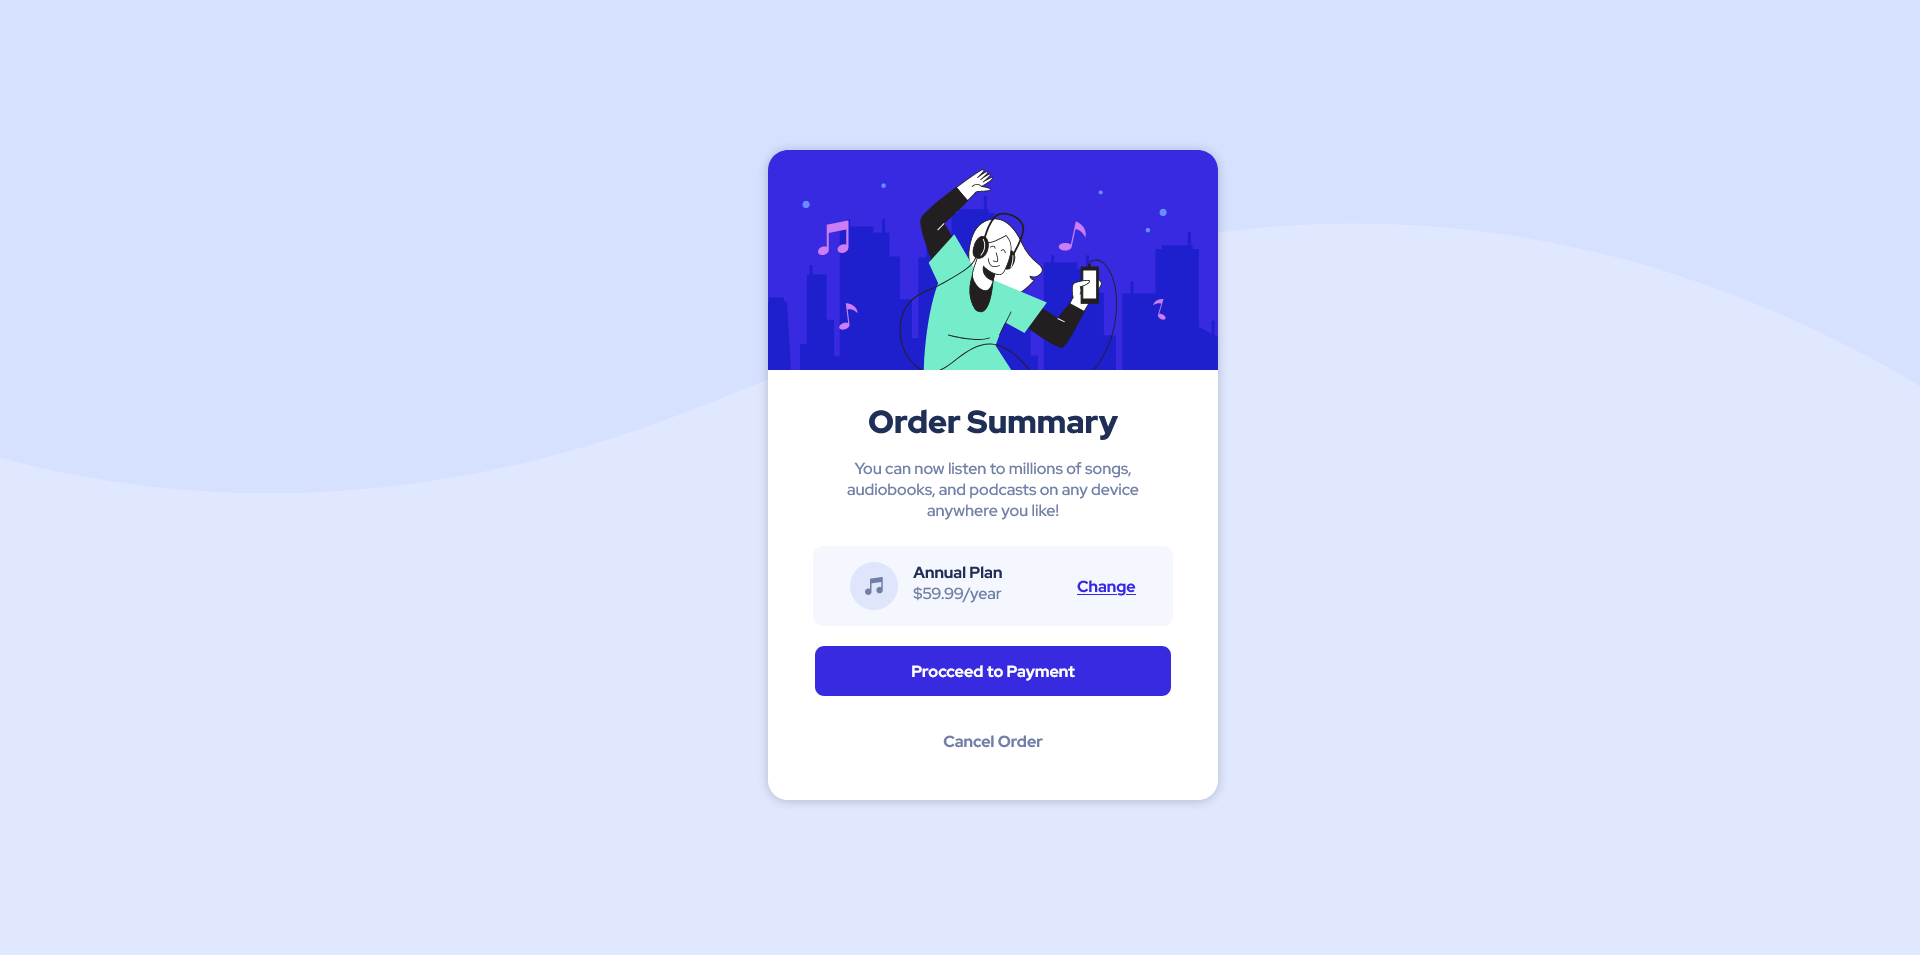
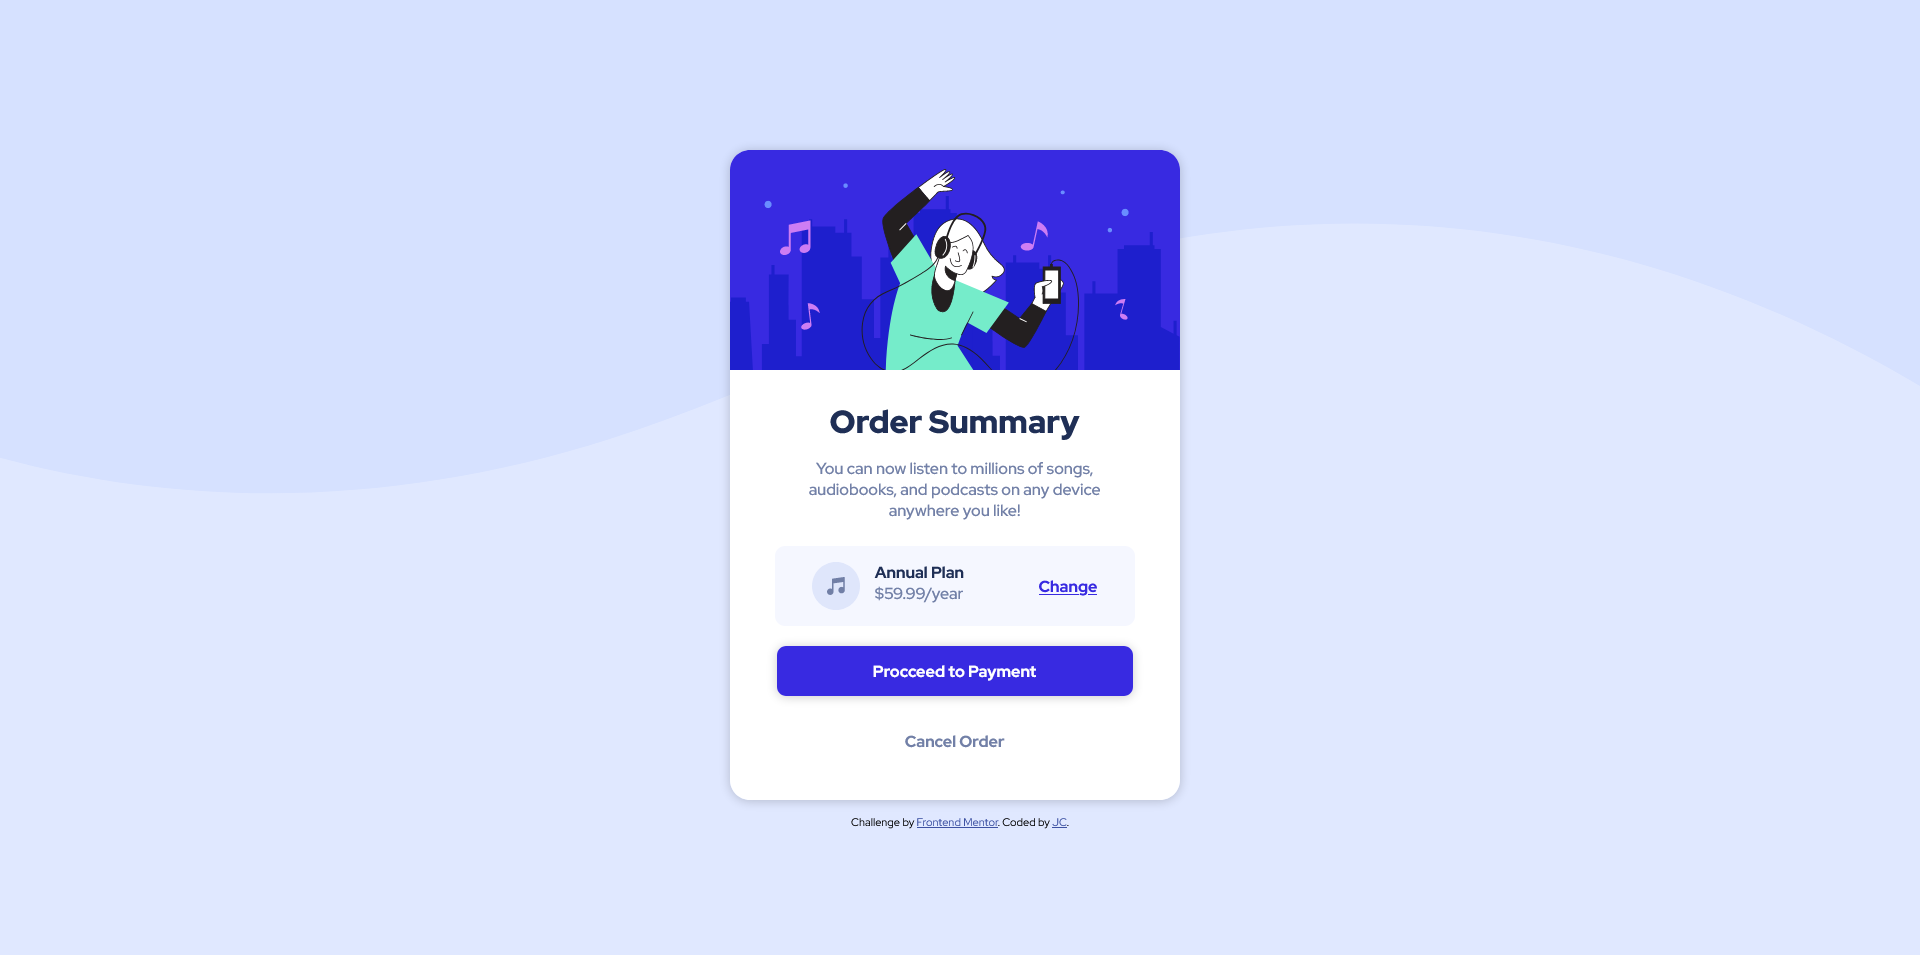
card position adjustment and footer added

Changed region(s): [[0.375, 0.1518, 0.6562, 0.8503], [0.4375, 0.8503, 0.5625, 0.8806], [0.4688, 0.7592, 0.5312, 0.7895]]

diff --git a/styles/styles.css b/styles/styles.css
@@ -105,7 +105,7 @@ body {
 
 .main_container {
     margin: auto;
-    width: 20%;
+    width: 24%;
     position: relative;
     top: 150px;
     max-width: 1150px;
@@ -209,6 +209,7 @@ h1 {
     height: 50px;
     border-radius: 9px;
     margin-bottom: 20px;
+    box-shadow: 0px 1px 10px rgba(0,0,0,0.2);
 }
 
 .buttons_container .first_button:hover{
@@ -242,6 +243,16 @@ h1 {
 .buttons_container .cancel_button p:hover{  
     cursor: pointer;
     color: hsl(223, 47%, 23%)
+}
+
+.attribution { 
+    font-size: 11px; 
+    text-align: center;
+    padding-top: 15px; 
+}
+
+.attribution a { 
+    color: hsl(228, 45%, 44%); 
 }
 
 /* Responsive View */
@@ -314,5 +325,10 @@ h1 {
         width: 270px;
         height: 50px;
         border-radius: 9px;
+    }
+
+    .attribution {
+        position: absolute;
+        left: 17%;
     }
 }

diff --git a/index.html b/index.html
@@ -10,7 +10,7 @@
             component and get it looking as close to the design as possible.">
     <title>Frontend Mentor | Order Summary Component Hub</title>
     <link rel="stylesheet" href="./styles/styles.css">
-    <link rel="icon" href="./images/favicon-32x32.png">
+    <link rel="icon" type="image/png" sizes="32x32" href="./images/favicon-32x32.png">
 </head>
 <body>
     <div class="main_container">
@@ -40,6 +40,10 @@
                         <p>Cancel Order</p>
                     </div>
             </div>
+        </div>
+        <div class="attribution">
+            Challenge by <a href="https://www.frontendmentor.io?ref=challenge" target="_blank">Frontend Mentor</a>. 
+            Coded by <a href="#">JC</a>.
         </div>
     </div>
     <div class="custom-shape-divider-top-1645756413">
